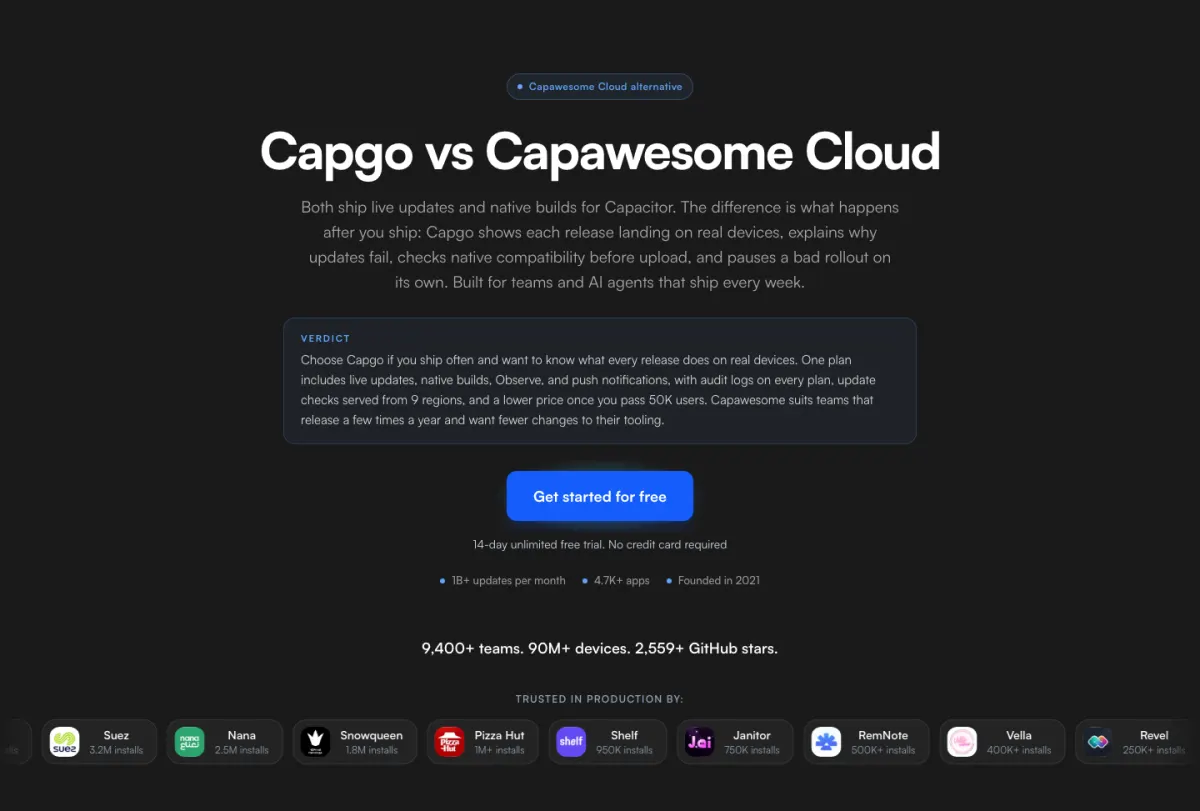
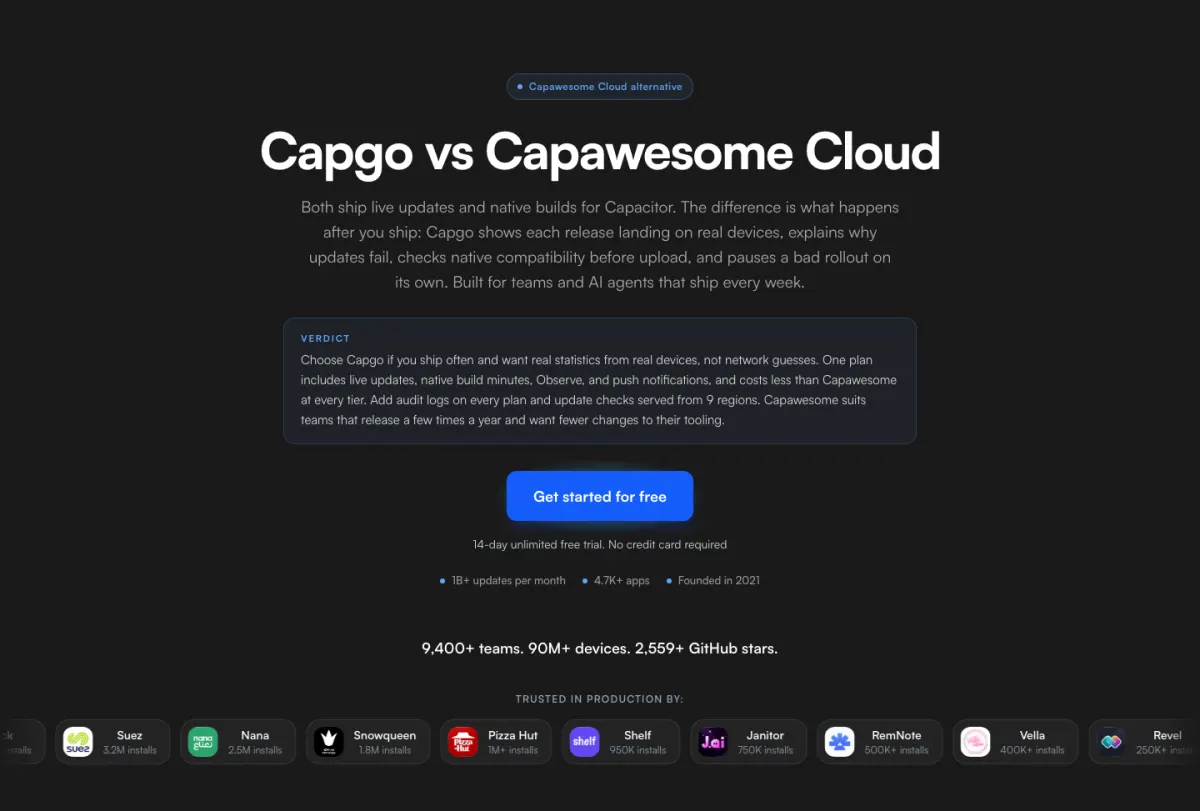
feat(web): Capawesome stats come from update checks; compare live updates + builds price per tier
Their plugin only calls the channel list and latest bundle endpoints and
reports no device events (iOS and Android source), so their numbers are
network-derived. Add a "where the numbers come from" row citing the code,
and replace the 100K MAU row with a per-tier price comparison for live
updates + native builds, where Capgo is cheaper at every tier.

Changed region(s): [[0.0308, 0.894, 0.9867, 0.9556], [0.2467, 0.4316, 0.74, 0.524]]

diff --git a/apps/shared/copy/translationContextByText.ts b/apps/shared/copy/translationContextByText.ts
@@ -134,9 +134,9 @@ export const translationContextByText: Record<string, string> = {
   '~60 sec': 'Page/area: Capgo Builder / native cloud build product page. Role: Short UI label or navigation item. Seen in: page native-build.astro, page native-build.astro. Message key `native_build_v2_strip_setup_v` (Native Build V2 Strip Setup V).',
   '~60 seconds.': 'Page/area: Capgo Builder / native cloud build product page. Role: Website copy sentence. Seen in: page native-build.astro, page native-build.astro. Message key `native_build_v2_comp_setup_capgo_hook` (Native Build V2 Comp Setup Capgo Hook).',
   '✓ Capgo Update Applied V1.0.11': 'Page/area: Built for developers homepage section. Role: Website copy sentence. Seen in: component BuiltForDevelopers.astro. Preserve Capgo product/brand and developer terms exactly. Message key `built_for_devs_phone_update` (Built For Devs Phone Update).',
+  '$14, $39, $99, or $249 a month for 2K, 10K, 100K, or 1M users. Build minutes are always included.': 'Page/area: Capgo marketing website. Role: Website copy sentence. Seen in: page alternatives/capawesome.astro. Message key `compare_capawesome_delta_price_capgo` (Compare Capawesome Delta Price Capgo).',
+  '$19, $49, $149, or $499 a month for 1K, 10K, 50K, or 250K users on Platform plans.': 'Page/area: Capgo marketing website. Role: Website copy sentence. Seen in: page alternatives/capawesome.astro. Message key `compare_capawesome_delta_price_them` (Compare Capawesome Delta Price Them).',
   '$19/mo minimum. Live updates are a separate add-on. Free tier needs their open-source program.': 'Page/area: Capgo Builder / native cloud build product page. Role: Website copy sentence. Seen in: page native-build.astro, page native-build.astro. Message key `native_build_v2_comp_try_capa` (Native Build V2 Comp Try Capa).',
-  '$249/month on Live Updates Business. Their Team plan stops at 50,000 users.': 'Page/area: Capgo marketing website. Role: Website copy sentence. Seen in: page alternatives/capawesome.astro. Message key `compare_capawesome_delta_scale_them` (Compare Capawesome Delta Scale Them).',
-  '$99/month on the Team plan, native build minutes included.': 'Page/area: Capgo marketing website. Role: Website copy sentence. Seen in: page alternatives/capawesome.astro. Message key `compare_capawesome_delta_scale_capgo` (Compare Capawesome Delta Scale Capgo).',
   '€1,000': 'Page/area: Homepage problem/solution section. Role: Short UI label or navigation item. Seen in: page premium-support.astro, page premium-support.astro. Message key `ps_price` (Ps Price).',
   '€250/hour effective rate • Additional hours available at the same rate': 'Page/area: Homepage problem/solution section. Role: Website copy sentence. Seen in: page premium-support.astro, page premium-support.astro. Message key `ps_rate_info` (Ps Rate Info).',
   '0 build minutes': 'Page/area: Capgo Builder / native cloud build product page. Role: Short UI label or navigation item. Seen in: page native-build.astro, page native-build.astro. Message key `native_build_builder_build_minutes_zero` (Native Build Builder Build Minutes Zero).',
@@ -161,7 +161,6 @@ export const translationContextByText: Record<string, string> = {
   '10-core GPU': 'Page/area: Capgo Builder / native cloud build product page. Role: Short UI label or navigation item. Message key `native_build_builder_infra_spec_gpu_value` (Native Build Builder Infra Spec Gpu Value).',
   '10-core M4 CPU (4 performance cores, 6 efficiency cores)': 'Page/area: Capgo Builder / native cloud build product page. Role: Website copy sentence. Message key `native_build_builder_infra_spec_cpu_value` (Native Build Builder Infra Spec Cpu Value).',
   '10%': 'Page/area: Pricing page or plan calculator UI. Role: Short UI label or navigation item. Seen in: page sla.astro. Message key `credit_10_percent` (Credit 10 Percent).',
-  '100,000 monthly active users': 'Page/area: Capgo marketing website. Role: UI label. Seen in: page alternatives/capawesome.astro. Message key `compare_capawesome_delta_scale_label` (Compare Capawesome Delta Scale Label).',
   '12 hours': 'HTML text fragment from a longer Capgo UI string (parent key `normal_priority_response`). Page/area: Capgo marketing website. Role: Website copy sentence. Seen in: page sla.astro. Message key `normal_priority_response` (Normal Priority Response).',
   '12 hours 24/7 x 365': 'Page/area: Capgo marketing website. Role: Website copy sentence. Seen in: page sla.astro. Message key `normal_priority_response` (Normal Priority Response).',
   '12 hours<br />24/7 x 365': 'Page/area: Capgo marketing website. Role: Website copy sentence. Seen in: page sla.astro. Message key `normal_priority_response` (Normal Priority Response).',
@@ -366,7 +365,7 @@ export const translationContextByText: Record<string, string> = {
   'action: fail this upload or ship a native build first': 'Page/area: Live updates product page. Role: Website copy sentence. Seen in: page live-update.astro, page live-update.astro. Message key `live_update_guidance_cli_action` (Live Update Guidance CLI Action).',
   'Actionable context in one place: decide to rollback, bump a channel, or ship a hotfix with confidence.': 'Page/area: Live updates product page. Role: Website copy sentence. Seen in: component landing/DeviceLogs.astro. Message key `live_update_logs_panel_footer` (Live Update Logs Panel Footer).',
   'Active': 'Page/area: Capacitor live-update alternatives comparison page. Role: Short UI label or navigation item. Seen in: page alternatives.astro. Message key `alternatives_sum_capawesome_status` (Alternatives Sum Capawesome Status). | Page/area: Capacitor live-update alternatives comparison page. Role: Short UI label or navigation item. Seen in: page alternatives.astro. Message key `alternatives_sum_expo_status` (Alternatives Sum Expo Status). | Page/area: Capacitor live-update alternatives comparison page. Role: Short UI label or navigation item. Seen in: page alternatives.astro. Message key `alternatives_sum_median_status` (Alternatives Sum Median Status). | Page/area: Capacitor live-update alternatives comparison page. Role: Short UI label or navigation item. Seen in: page alternatives.astro. Message key `alternatives_sum_voltbuilder_status` (Alternatives Sum Voltbuilder Status).',
-  'Active devices, update adoption, and bundle health per channel.': 'Page/area: Capgo marketing website. Role: Website copy sentence. Seen in: page alternatives/capawesome.astro. Preserve Capgo product/brand and developer terms exactly. Message key `compare_capawesome_delta_live_them` (Compare Capawesome Delta Live Them).',
+  'Active devices and adoption, inferred from update-check requests.': 'Page/area: Capgo marketing website. Role: Website copy sentence. Seen in: page alternatives/capawesome.astro. Message key `compare_capawesome_delta_live_them` (Compare Capawesome Delta Live Them).',
   'Active, founded 2021': 'Page/area: Capacitor live-update alternatives comparison page. Role: Short UI label or navigation item. Seen in: page alternatives.astro. Message key `alternatives_sum_capgo_status` (Alternatives Sum Capgo Status).',
   'Actively developed. Enterprise plans include a 99.9% uptime SLA.': 'Page/area: Capgo marketing website. Role: Website copy sentence. Seen in: page alternatives/expo.astro. Message key `compare_expo_company` (Compare Expo Company).',
   'Actual Availability': 'Page/area: Capgo marketing website. Role: Short UI label or navigation item. Seen in: page sla.astro. Message key `actual_availability` (Actual Availability).',
@@ -994,12 +993,13 @@ export const translationContextByText: Record<string, string> = {
   'Capawesome Cloud pricing': 'Page/area: Capgo marketing website. Role: Short UI label or navigation item. Seen in: page alternatives.astro, page alternatives/capawesome.astro. Message key `compare_capawesome_source_pricing` (Compare Capawesome Source Pricing).',
   'Capawesome Cloud review for Capacitor teams': 'Page/area: Capgo marketing website. Role: Section or page heading. Seen in: page alternatives.astro, page alternatives/capawesome.astro, page migrate/from-capawesome.astro. Preserve Capgo product/brand and developer terms exactly. Message key `review_capawesome_title` (Review Capawesome Title).',
   'Capawesome Cloud: Live Updates': 'Page/area: Capgo marketing website. Role: Website copy sentence. Seen in: page alternatives/capawesome.astro. Message key `compare_capawesome_source_live_updates` (Compare Capawesome Source Live Updates).',
+  'Capawesome counts update-check requests. Capgo devices report what actually happened: downloads, installs, failures, rollbacks, app launches, and crashes. That is how you get native app health, failure causes, a timeline for every device, and rollouts that pause themselves. These are real Capgo screens.': 'Page/area: Capgo marketing website. Role: Long marketing or legal paragraph. Seen in: page alternatives/capawesome.astro. Preserve Capgo product/brand and developer terms exactly. Message key `compare_capawesome_obs_lead` (Compare Capawesome Obs Lead).',
   'Capawesome docs: Gradual rollouts': 'Page/area: Capgo marketing website. Role: Website copy sentence. Seen in: page alternatives/capawesome.astro. Message key `compare_capawesome_source_rollouts` (Compare Capawesome Source Rollouts).',
   'Capawesome docs: Live Update bundles': 'Page/area: Capgo marketing website. Role: Website copy sentence. Seen in: page alternatives/capawesome.astro. Preserve Capgo product/brand and developer terms exactly. Message key `compare_capawesome_source_bundles` (Compare Capawesome Source Bundles).',
   'Capawesome docs: Live Update logs': 'Page/area: Capgo marketing website. Role: Website copy sentence. Seen in: page alternatives/capawesome.astro. Message key `compare_capawesome_source_logs` (Compare Capawesome Source Logs).',
   'Capawesome docs: MCP server': 'Page/area: Capgo marketing website. Role: Website copy sentence. Seen in: page alternatives/capawesome.astro. Message key `compare_capawesome_source_ai` (Compare Capawesome Source Ai).',
   'Capawesome Live Update plugin on GitHub': 'Page/area: Capgo marketing website. Role: Website copy sentence. Seen in: page alternatives/capawesome.astro. Preserve Capgo product/brand and developer terms exactly. Message key `compare_capawesome_source_github` (Compare Capawesome Source Github).',
-  'Capawesome reports active devices, update adoption, and bundle health. Capgo goes further: native app health, failure causes, a timeline for every device, and rollouts that pause themselves. These are real Capgo screens.': 'Page/area: Capgo marketing website. Role: Long marketing or legal paragraph. Seen in: page alternatives/capawesome.astro. Preserve Capgo product/brand and developer terms exactly. Message key `compare_capawesome_obs_lead` (Compare Capawesome Obs Lead).',
+  'Capawesome Live Update plugin source: network calls': 'Page/area: Capgo marketing website. Role: Website copy sentence. Seen in: page alternatives/capawesome.astro. Message key `compare_capawesome_source_plugin_code` (Compare Capawesome Source Plugin Code).',
   'Capawesome ships popular Capacitor plugins and a cloud platform for live updates and builds. Many teams evaluate it next to Capgo.': 'Page/area: Capgo marketing website. Role: Section subtitle or tagline. Seen in: page reviews/capawesome.astro. Preserve Capgo product/brand and developer terms exactly. Message key `review_capawesome_hero_subtitle` (Review Capawesome Hero Subtitle).',
   'Capawesome vs Capgo': 'Page/area: Capawesome comparison page. Role: Section or page heading. Seen in: page alternatives/capawesome.astro, page alternatives/capawesome.astro, page migrate/from-capawesome.astro. Preserve Capgo product/brand and developer terms exactly. Message key `capwesome_title` (Capwesome Title). | Page/area: Capawesome comparison page. Role: UI label. Seen in: site footer, site footer. Preserve Capgo product/brand and developer terms exactly. Message key `capwesome_nav_label` (Capwesome Nav Label).',
   'Capawesome: About': 'Page/area: Capgo marketing website. Role: Short UI label or navigation item. Seen in: page alternatives/capawesome.astro. Message key `compare_capawesome_source_about` (Compare Capawesome Source About).',
@@ -1257,7 +1257,7 @@ export const translationContextByText: Record<string, string> = {
   'Children\'s Privacy': 'Page/area: Privacy policy legal page. Role: Section or page heading. Seen in: page privacy.astro. Message key `privacy_children_privacy_title` (Privacy Children Privacy Title).',
   'Choose an AI assistant': 'Page/area: Capgo marketing website. Role: UI label. Seen in: component AskAiSection.astro. Message key `ask_ai_provider_label` (Ask Ai Provider Label).',
   'Choose an order': 'Page/area: Capgo marketing website. Role: Short UI label or navigation item. Seen in: page plugins.astro, page plugins.astro. Message key `choose_an_order` (Choose An Order).',
-  'Choose Capgo if you ship often and want to know what every release does on real devices. One plan includes live updates, native builds, Observe, and push notifications, with audit logs on every plan, update checks served from 9 regions, and a lower price once you pass 50K users. Capawesome suits teams that release a few times a year and want fewer changes to their tooling.': 'Page/area: Capgo marketing website. Role: Long marketing or legal paragraph. Seen in: page alternatives.astro, page alternatives/capawesome.astro. Preserve Capgo product/brand and developer terms exactly. Message key `compare_capawesome_verdict` (Compare Capawesome Verdict).',
+  'Choose Capgo if you ship often and want real statistics from real devices, not network guesses. One plan includes live updates, native build minutes, Observe, and push notifications, and costs less than Capawesome at every tier. Add audit logs on every plan and update checks served from 9 regions. Capawesome suits teams that release a few times a year and want fewer changes to their tooling.': 'Page/area: Capgo marketing website. Role: Long marketing or legal paragraph. Seen in: page alternatives.astro, page alternatives/capawesome.astro. Preserve Capgo product/brand and developer terms exactly. Message key `compare_capawesome_verdict` (Compare Capawesome Verdict).',
   'Choose Capgo when you want a Capacitor app you control, with live updates, rollback, channels, native builds, device logs, open-source code, self-hosting options, Discord community help, and paid expert support when needed.': 'Page/area: Capgo marketing website. Role: FAQ question or answer. Seen in: page alternatives/median.astro. Preserve Capgo product/brand and developer terms exactly. Message key `compare_median_faq_a5` (Compare Median FAQ A5).',
   'Choose EAS when the product is React Native. Choose Capgo when the product is a web app and the goal is iOS and Android without rewriting the UI.': 'Page/area: Capgo marketing website. Role: Website copy sentence. Seen in: page alternatives.astro, page alternatives/expo.astro. Preserve Capgo product/brand and developer terms exactly. Message key `compare_expo_verdict` (Compare Expo Verdict).',
   'Choose from your Capgo projects': 'Page/area: Capgo marketing website. Role: Website copy sentence. Preserve Capgo product/brand and developer terms exactly. Message key `choose_from_your_capgo_projects` (Choose From Your Capgo Projects).',
@@ -1902,6 +1902,7 @@ export const translationContextByText: Record<string, string> = {
   'Even after approval, shoppers still have to install the new version. The campaign may be over before most of them do.': 'Page/area: Capgo solutions marketing page. Role: Website copy sentence. Seen in: page solutions/ecommerce.astro, page solutions/ecommerce.astro. Message key `solutions_ecommerce_nightmare_para3` (Solutions Ecommerce Nightmare Para3).',
   'Even after approval, users still have to install the new version before they get the fix.': 'Page/area: Capgo solutions marketing page. Role: Website copy sentence. Seen in: page solutions/fintech.astro, page solutions/fintech.astro. Message key `solutions_fintech_nightmare_para3` (Solutions Fintech Nightmare Para3).',
   'Event pages, notices, or terms that must be current when users open the app.': 'Page/area: Capgo solutions marketing page. Role: Website copy sentence. Seen in: page solutions/direct-updates.astro, page solutions/direct-updates.astro. Message key `solutions_direct_usecase3_desc` (Solutions Direct Usecase3 Desc).',
+  'Events sent by the device: downloads, installs, failures, rollbacks, app launches, and crashes.': 'Page/area: Capgo marketing website. Role: Website copy sentence. Seen in: page alternatives/capawesome.astro. Message key `compare_capawesome_delta_source_capgo` (Compare Capawesome Delta Source Capgo).',
   'Every 10 min while open': 'Page/area: Capgo solutions marketing page. Role: Website copy sentence. Seen in: page solutions/set-and-forget.astro. Message key `solutions_set_and_forget_stat2_value` (Solutions Set And Forget Stat2 Value).',
   'Every bug report lands on you. Shipping the fix should not wait a week.': 'Page/area: Capgo solutions marketing page. Role: Website copy sentence. Seen in: page solutions/solo-developers.astro, page solutions/solo-developers.astro. Message key `solutions_solo_pain6_desc` (Solutions Solo Pain6 Desc).',
   'Every build': 'Page/area: Capgo solutions marketing page. Role: Short UI label or navigation item. Seen in: page solutions/pr-preview.astro. Message key `solutions_pr_cost_processing_value` (Solutions Pr Cost Processing Value).',
@@ -2821,6 +2822,7 @@ export const translationContextByText: Record<string, string> = {
   'Live Update SLA Exclusions': 'Page/area: Live updates product page. Role: Section or page heading. Seen in: page sla.astro. Message key `live_update_sla_exclusions_title` (Live Update SLA Exclusions Title).',
   'Live updates': 'Page/area: Capgo solutions marketing page. Role: Short UI label or navigation item. Message key `solutions_lovable_to_mobile_stat3_value` (Solutions Lovable To Mobile Stat3 Value). | Page/area: Capgo solutions marketing page. Role: Short UI label or navigation item. Message key `solutions_webapp_to_mobile_stat3_value` (Solutions Webapp To Mobile Stat3 Value).',
   'Live Updates': 'Page/area: Capgo marketing website. Role: UI label. Seen in: site header, component PlatformOverview.astro, component ProductsMegaMenu.astro. Message key `platform_live_update_name` (Platform Live Update Name). | Page/area: Homepage problem/solution section. Role: Section or page heading. Seen in: page premium-support.astro, page premium-support.astro. Message key `ps_help_updates_title` (Ps Help Updates Title).',
+  'Live updates + native builds': 'Page/area: Capgo marketing website. Role: UI label. Seen in: page alternatives/capawesome.astro. Message key `compare_capawesome_delta_price_label` (Compare Capawesome Delta Price Label).',
   'Live updates after launch': 'Page/area: Capgo solutions marketing page. Role: Section or page heading. Message key `solutions_webapp_to_mobile_cap4_title` (Solutions Webapp To Mobile Cap4 Title).',
   'Live updates and cloud builds for solo Capacitor developers: one CLI, a GitHub Actions step, automatic rollback, iOS builds without a Mac, and an MCP server for your AI assistant. From $12/month billed yearly.': 'Page/area: Capgo solutions marketing page. Role: Supporting description paragraph or meta description. Seen in: page solutions/solo-developers.astro, page solutions/solo-developers.astro. Preserve Capgo product/brand and developer terms exactly. Message key `solutions_solo_description` (Solutions Solo Description).',
   'Live Updates and Native Builds for Mobile Agencies': 'Page/area: Capgo solutions marketing page. Role: Section or page heading. Seen in: page solutions/agencies.astro, page solutions/agencies.astro. Message key `solutions_agencies_title` (Solutions Agencies Title).',
@@ -3148,6 +3150,7 @@ export const translationContextByText: Record<string, string> = {
   'Needs native build': 'Page/area: Capgo marketing website. Role: Short UI label or navigation item. Seen in: component explainers/SceneOtaBoundary.astro. Message key `explainer_ota_needs_build` (Explainer OTA Needs Build).',
   'Network connections': 'Page/area: Capgo marketing website. Role: Short UI label or navigation item. Message key `network_connections` (Network Connections).',
   'Network Connections': 'Page/area: Homepage marketing copy. Role: Short UI label or navigation item. Seen in: component GlobalInfrastructure.astro, component GlobalInfrastructure.astro. Message key `home_network_connections` (Home Network Connections).',
+  'Network requests only. Their plugin calls two endpoints, the channel list and the latest bundle, and reports no device events.': 'Page/area: Capgo marketing website. Role: Website copy sentence. Seen in: page alternatives/capawesome.astro. Preserve Capgo product/brand and developer terms exactly. Message key `compare_capawesome_delta_source_them` (Compare Capawesome Delta Source Them).',
   'Neural Engine': 'Page/area: Capgo Builder / native cloud build product page. Role: UI label. Message key `native_build_builder_infra_spec_neural_label` (Native Build Builder Infra Spec Neural Label).',
   'Never persisted on our servers.': 'Page/area: Capgo Builder / native cloud build product page. Role: Website copy sentence. Seen in: page native-build.astro, page native-build.astro. Message key `native_build_v2_comp_cred_capgo_hook` (Native Build V2 Comp Cred Capgo Hook).',
   'New': 'Page/area: Live updates product page. Role: Short UI label or navigation item. Message key `live_update_lts_electron_new` (Live Update Lts Electron New).',
@@ -3246,8 +3249,8 @@ export const translationContextByText: Record<string, string> = {
   'Nope. Whatever you\'re using now (GitHub Actions, GitLab CI, Jenkins, etc.) keeps working. Just change the upload step to use our CLI instead of Appflow\'s.': 'Page/area: Appflow comparison / migration marketing copy. Role: FAQ question or answer. Seen in: page alternatives/ionic-appflow.astro, page alternatives/ionic-appflow.astro. Preserve Capgo product/brand and developer terms exactly. Message key `appflow_faq_a1` (Appflow FAQ A1).',
   'Not applicable without live updates. Every change ships as a new store build.': 'Page/area: Capgo marketing website. Role: Website copy sentence. Seen in: page alternatives/voltbuilder.astro. Message key `compare_voltbuilder_rollback` (Compare Voltbuilder Rollback).',
   'Not applicable: the app shows whatever your web server serves, so rollback follows your web deploys.': 'Page/area: Capgo marketing website. Role: Website copy sentence. Seen in: page alternatives/median.astro. Message key `compare_median_rollback` (Compare Median Rollback).',
+  'Not available. The plugin sends no launch, crash, or error events.': 'Page/area: Capgo marketing website. Role: Website copy sentence. Seen in: page alternatives/capawesome.astro. Message key `compare_capawesome_delta_native_them` (Compare Capawesome Delta Native Them).',
   'Not Covered': 'Page/area: Support / premium support page or footer support section. Role: Section or page heading. Seen in: page support-policy.astro. Message key `support_policy_not_covered_title` (Support Policy Not Covered Title).',
-  'Not documented.': 'Page/area: Capgo marketing website. Role: Website copy sentence. Seen in: page alternatives/capawesome.astro. Message key `compare_capawesome_delta_native_them` (Compare Capawesome Delta Native Them).',
   'Not for using live updates. Both stores let apps download interpreted code like JavaScript, HTML, and CSS, as long as each update stays within the app you submitted for review.': 'Page/area: Capgo marketing website. Role: Long marketing or legal paragraph. Seen in: component StorePolicySection.astro. Message key `store_policy_lead` (Store Policy Lead).',
   'Not if the goal is ownership. Median is a managed web-to-app platform. Capgo is for Capacitor apps where your app code, plugins, update service, and hosting path can stay portable and open source.': 'Page/area: Capgo marketing website. Role: FAQ question or answer. Seen in: page alternatives/median.astro. Preserve Capgo product/brand and developer terms exactly. Message key `compare_median_faq_a1` (Compare Median FAQ A1).',
   'Not included. Build or buy OTA separately.': 'Page/area: Capgo Builder / native cloud build product page. Role: Website copy sentence. Seen in: page native-build.astro, page native-build.astro. Preserve Capgo product/brand and developer terms exactly. Message key `native_build_v2_comp_ota_diy` (Native Build V2 Comp OTA Diy).',
@@ -3886,7 +3889,7 @@ export const translationContextByText: Record<string, string> = {
   'Release health in Observe': 'Page/area: Capgo solutions marketing page. Role: Section or page heading. Seen in: page solutions/production-updates.astro, page solutions/production-updates.astro. Message key `solutions_usecase3_title` (Solutions Usecase3 Title).',
   'Release health while it ships': 'Page/area: Live updates product page. Role: Section or page heading. Message key `live_update_guidance_dashboard_title` (Live Update Guidance Dashboard Title).',
   'Release intelligence': 'Page/area: Homepage landing product feature section. Role: Section subtitle or tagline. Seen in: component landing/ReleaseIntelligence.astro. Message key `landing_release_intelligence_subtitle` (Landing Release Intelligence Subtitle). | Page/area: Live updates product page. Role: Short UI label or navigation item. Seen in: page live-update.astro, page live-update.astro. Message key `live_update_guidance_kicker` (Live Update Guidance Kicker).',
-  'Release observability and safety in Capgo and Capawesome Cloud, based on public documentation.': 'Page/area: Capgo marketing website. Role: Website copy sentence. Seen in: page alternatives/capawesome.astro. Preserve Capgo product/brand and developer terms exactly. Message key `compare_capawesome_delta_caption` (Compare Capawesome Delta Caption).',
+  'Release observability and safety in Capgo and Capawesome Cloud, based on public documentation and plugin source code.': 'Page/area: Capgo marketing website. Role: Website copy sentence. Seen in: page alternatives/capawesome.astro. Preserve Capgo product/brand and developer terms exactly. Message key `compare_capawesome_delta_caption` (Compare Capawesome Delta Caption).',
   'release owners, security admins, and support teams productive quickly.': 'Page/area: Enterprise product/pricing page. Role: Website copy sentence. Seen in: page enterprise.astro, page enterprise.astro. Message key `enterprise_procurement_onboarding_desc` (Enterprise Procurement Onboarding Desc).',
   'Release safety': 'Page/area: Enterprise product/pricing page. Role: UI label. Seen in: page enterprise.astro, page enterprise.astro. Message key `enterprise_release_safety_label` (Enterprise Release Safety Label).',
   'Release teams rely on Capgo in production': 'Page/area: Capgo marketing website. Role: Section or page heading. Seen in: page observe.astro. Preserve Capgo product/brand and developer terms exactly. Message key `proof_observe_title` (Proof Observe Title).',
@@ -5480,6 +5483,7 @@ export const translationContextByText: Record<string, string> = {
   'Where is the current sub-processor list?': 'Page/area: Enterprise product/pricing page. Role: FAQ question or answer. Seen in: page enterprise.astro, page enterprise.astro. Message key `enterprise_faq_subprocessors_q` (Enterprise FAQ Subprocessors Q).',
   'Where restaurant apps use live updates': 'Page/area: Capgo solutions marketing page. Role: Section or page heading. Seen in: page solutions/qsr.astro, page solutions/qsr.astro. Message key `solutions_qsr_usecases_title` (Solutions Qsr Usecases Title).',
   'Where startup time goes': 'Page/area: Capgo solutions marketing page. Role: UI label. Seen in: page solutions/startups.astro, page solutions/startups.astro. Message key `solutions_startups_reality_label` (Solutions Startups Reality Label).',
+  'Where the numbers come from': 'Page/area: Capgo marketing website. Role: UI label. Seen in: page alternatives/capawesome.astro. Message key `compare_capawesome_delta_source_label` (Compare Capawesome Delta Source Label).',
   'Which Capgo skill should we install?': 'Page/area: Capgo solutions marketing page. Role: Website copy sentence. Seen in: page solutions/cordova-to-capacitor-ai.astro. Preserve Capgo product/brand and developer terms exactly. Message key `solutions_cordova_to_capacitor_ai_faq2_q` (Solutions Cordova To Capacitor Ai Faq2 Q).',
   'Which stack should a web team choose?': 'Page/area: Capgo marketing website. Role: FAQ question or answer. Seen in: page alternatives/expo.astro. Message key `compare_expo_faq_q8` (Compare Expo FAQ Q8).',
   'While Ionic Appflow announced its shutdown, Capgo continues to grow stronger every day.': 'Page/area: Homepage marketing copy. Role: Website copy sentence. Seen in: component AppflowShutdown.astro, component AppflowShutdown.astro. Preserve Capgo product/brand and developer terms exactly. Message key `home_appflow_notice_intro` (Home Appflow Notice Intro).',

diff --git a/apps/shared/copy/messageContexts.ts b/apps/shared/copy/messageContexts.ts
@@ -799,22 +799,25 @@ export const messageContexts = {
   compare_capawesome_delta_infra_them: 'Page/area: Capgo marketing website. Role: Website copy sentence. Seen in: page alternatives/capawesome.astro. Preserve Capgo product/brand and developer terms exactly. Message key `compare_capawesome_delta_infra_them` (Compare Capawesome Delta Infra Them).',
   compare_capawesome_delta_live_capgo: 'Page/area: Capgo marketing website. Role: Website copy sentence. Seen in: page alternatives/capawesome.astro. Message key `compare_capawesome_delta_live_capgo` (Compare Capawesome Delta Live Capgo).',
   compare_capawesome_delta_live_label: 'Page/area: Capgo marketing website. Role: UI label. Seen in: page alternatives/capawesome.astro. Message key `compare_capawesome_delta_live_label` (Compare Capawesome Delta Live Label).',
-  compare_capawesome_delta_live_them: 'Page/area: Capgo marketing website. Role: Website copy sentence. Seen in: page alternatives/capawesome.astro. Preserve Capgo product/brand and developer terms exactly. Message key `compare_capawesome_delta_live_them` (Compare Capawesome Delta Live Them).',
+  compare_capawesome_delta_live_them: 'Page/area: Capgo marketing website. Role: Website copy sentence. Seen in: page alternatives/capawesome.astro. Message key `compare_capawesome_delta_live_them` (Compare Capawesome Delta Live Them).',
   compare_capawesome_delta_native_capgo: 'Page/area: Capgo marketing website. Role: Website copy sentence. Seen in: page alternatives/capawesome.astro. Message key `compare_capawesome_delta_native_capgo` (Compare Capawesome Delta Native Capgo).',
   compare_capawesome_delta_native_label: 'Page/area: Capgo marketing website. Role: UI label. Seen in: page alternatives/capawesome.astro. Message key `compare_capawesome_delta_native_label` (Compare Capawesome Delta Native Label).',
   compare_capawesome_delta_native_them: 'Page/area: Capgo marketing website. Role: Website copy sentence. Seen in: page alternatives/capawesome.astro. Message key `compare_capawesome_delta_native_them` (Compare Capawesome Delta Native Them).',
   compare_capawesome_delta_plan_capgo: 'Page/area: Capgo marketing website. Role: Website copy sentence. Seen in: page alternatives/capawesome.astro. Message key `compare_capawesome_delta_plan_capgo` (Compare Capawesome Delta Plan Capgo).',
   compare_capawesome_delta_plan_label: 'Page/area: Capgo marketing website. Role: UI label. Seen in: page alternatives/capawesome.astro. Message key `compare_capawesome_delta_plan_label` (Compare Capawesome Delta Plan Label).',
   compare_capawesome_delta_plan_them: 'Page/area: Capgo marketing website. Role: Website copy sentence. Seen in: page alternatives/capawesome.astro. Preserve Capgo product/brand and developer terms exactly. Message key `compare_capawesome_delta_plan_them` (Compare Capawesome Delta Plan Them).',
+  compare_capawesome_delta_price_capgo: 'Page/area: Capgo marketing website. Role: Website copy sentence. Seen in: page alternatives/capawesome.astro. Message key `compare_capawesome_delta_price_capgo` (Compare Capawesome Delta Price Capgo).',
+  compare_capawesome_delta_price_label: 'Page/area: Capgo marketing website. Role: UI label. Seen in: page alternatives/capawesome.astro. Message key `compare_capawesome_delta_price_label` (Compare Capawesome Delta Price Label).',
+  compare_capawesome_delta_price_them: 'Page/area: Capgo marketing website. Role: Website copy sentence. Seen in: page alternatives/capawesome.astro. Message key `compare_capawesome_delta_price_them` (Compare Capawesome Delta Price Them).',
   compare_capawesome_delta_push_capgo: 'Page/area: Capgo marketing website. Role: Website copy sentence. Seen in: page alternatives/capawesome.astro. Message key `compare_capawesome_delta_push_capgo` (Compare Capawesome Delta Push Capgo).',
   compare_capawesome_delta_push_label: 'Page/area: Capgo marketing website. Role: UI label. Seen in: page alternatives/capawesome.astro. Message key `compare_capawesome_delta_push_label` (Compare Capawesome Delta Push Label).',
   compare_capawesome_delta_push_them: 'Page/area: Capgo marketing website. Role: Website copy sentence. Seen in: page alternatives/capawesome.astro. Message key `compare_capawesome_delta_push_them` (Compare Capawesome Delta Push Them).',
   compare_capawesome_delta_rollout_capgo: 'Page/area: Capgo marketing website. Role: Website copy sentence. Seen in: page alternatives/capawesome.astro. Message key `compare_capawesome_delta_rollout_capgo` (Compare Capawesome Delta Rollout Capgo).',
   compare_capawesome_delta_rollout_label: 'Page/area: Capgo marketing website. Role: UI label. Seen in: page alternatives/capawesome.astro. Message key `compare_capawesome_delta_rollout_label` (Compare Capawesome Delta Rollout Label).',
   compare_capawesome_delta_rollout_them: 'Page/area: Capgo marketing website. Role: Website copy sentence. Seen in: page alternatives/capawesome.astro. Preserve Capgo product/brand and developer terms exactly. Message key `compare_capawesome_delta_rollout_them` (Compare Capawesome Delta Rollout Them).',
-  compare_capawesome_delta_scale_capgo: 'Page/area: Capgo marketing website. Role: Website copy sentence. Seen in: page alternatives/capawesome.astro. Message key `compare_capawesome_delta_scale_capgo` (Compare Capawesome Delta Scale Capgo).',
-  compare_capawesome_delta_scale_label: 'Page/area: Capgo marketing website. Role: UI label. Seen in: page alternatives/capawesome.astro. Message key `compare_capawesome_delta_scale_label` (Compare Capawesome Delta Scale Label).',
-  compare_capawesome_delta_scale_them: 'Page/area: Capgo marketing website. Role: Website copy sentence. Seen in: page alternatives/capawesome.astro. Message key `compare_capawesome_delta_scale_them` (Compare Capawesome Delta Scale Them).',
+  compare_capawesome_delta_source_capgo: 'Page/area: Capgo marketing website. Role: Website copy sentence. Seen in: page alternatives/capawesome.astro. Message key `compare_capawesome_delta_source_capgo` (Compare Capawesome Delta Source Capgo).',
+  compare_capawesome_delta_source_label: 'Page/area: Capgo marketing website. Role: UI label. Seen in: page alternatives/capawesome.astro. Message key `compare_capawesome_delta_source_label` (Compare Capawesome Delta Source Label).',
+  compare_capawesome_delta_source_them: 'Page/area: Capgo marketing website. Role: Website copy sentence. Seen in: page alternatives/capawesome.astro. Preserve Capgo product/brand and developer terms exactly. Message key `compare_capawesome_delta_source_them` (Compare Capawesome Delta Source Them).',
   compare_capawesome_delta_title: 'Page/area: Capgo marketing website. Role: Section or page heading. Seen in: page alternatives/capawesome.astro. Preserve Capgo product/brand and developer terms exactly. Message key `compare_capawesome_delta_title` (Compare Capawesome Delta Title).',
   compare_capawesome_eyebrow: 'Page/area: Capgo marketing website. Role: Section subtitle or tagline. Seen in: page alternatives/capawesome.astro. Message key `compare_capawesome_eyebrow` (Compare Capawesome Eyebrow).',
   compare_capawesome_frameworks: 'Page/area: Capgo marketing website. Role: Website copy sentence. Seen in: page alternatives/capawesome.astro. Preserve Capgo product/brand and developer terms exactly. Message key `compare_capawesome_frameworks` (Compare Capawesome Frameworks).',
@@ -836,6 +839,7 @@ export const messageContexts = {
   compare_capawesome_source_github: 'Page/area: Capgo marketing website. Role: Website copy sentence. Seen in: page alternatives/capawesome.astro. Preserve Capgo product/brand and developer terms exactly. Message key `compare_capawesome_source_github` (Compare Capawesome Source Github).',
   compare_capawesome_source_live_updates: 'Page/area: Capgo marketing website. Role: Website copy sentence. Seen in: page alternatives/capawesome.astro. Message key `compare_capawesome_source_live_updates` (Compare Capawesome Source Live Updates).',
   compare_capawesome_source_logs: 'Page/area: Capgo marketing website. Role: Website copy sentence. Seen in: page alternatives/capawesome.astro. Message key `compare_capawesome_source_logs` (Compare Capawesome Source Logs).',
+  compare_capawesome_source_plugin_code: 'Page/area: Capgo marketing website. Role: Website copy sentence. Seen in: page alternatives/capawesome.astro. Message key `compare_capawesome_source_plugin_code` (Compare Capawesome Source Plugin Code).',
   compare_capawesome_source_pricing: 'Page/area: Capgo marketing website. Role: Short UI label or navigation item. Seen in: page alternatives.astro, page alternatives/capawesome.astro. Message key `compare_capawesome_source_pricing` (Compare Capawesome Source Pricing).',
   compare_capawesome_source_rollouts: 'Page/area: Capgo marketing website. Role: Website copy sentence. Seen in: page alternatives/capawesome.astro. Message key `compare_capawesome_source_rollouts` (Compare Capawesome Source Rollouts).',
   compare_capawesome_step1_text: 'Page/area: Capgo marketing website. Role: Website copy sentence. Seen in: page alternatives/capawesome.astro. Message key `compare_capawesome_step1_text` (Compare Capawesome Step1 Text).',

diff --git a/apps/shared/copy/messages.ts b/apps/shared/copy/messages.ts
@@ -626,15 +626,21 @@ const messages = {
   compare_capawesome_obs_eyebrow: 'After you ship',
   compare_capawesome_obs_title: 'See what every release does on real devices',
   compare_capawesome_obs_lead:
-    'Capawesome reports active devices, update adoption, and bundle health. Capgo goes further: native app health, failure causes, a timeline for every device, and rollouts that pause themselves. These are real Capgo screens.',
+    'Capawesome counts update-check requests. Capgo devices report what actually happened: downloads, installs, failures, rollbacks, app launches, and crashes. That is how you get native app health, failure causes, a timeline for every device, and rollouts that pause themselves. These are real Capgo screens.',
   compare_capawesome_delta_title: 'What Capgo adds on top',
-  compare_capawesome_delta_caption: 'Release observability and safety in Capgo and Capawesome Cloud, based on public documentation.',
+  compare_capawesome_delta_caption: 'Release observability and safety in Capgo and Capawesome Cloud, based on public documentation and plugin source code.',
   compare_capawesome_delta_live_label: 'Live release health',
   compare_capawesome_delta_live_capgo: 'Installs, failed attempts, adoption, and success rate for the release that is live, in 5-minute buckets.',
-  compare_capawesome_delta_live_them: 'Active devices, update adoption, and bundle health per channel.',
+  compare_capawesome_delta_live_them: 'Active devices and adoption, inferred from update-check requests.',
+  compare_capawesome_delta_price_them: '$19, $49, $149, or $499 a month for 1K, 10K, 50K, or 250K users on Platform plans.',
+  compare_capawesome_delta_price_capgo: '$14, $39, $99, or $249 a month for 2K, 10K, 100K, or 1M users. Build minutes are always included.',
+  compare_capawesome_delta_price_label: 'Live updates + native builds',
+  compare_capawesome_delta_source_them: 'Network requests only. Their plugin calls two endpoints, the channel list and the latest bundle, and reports no device events.',
+  compare_capawesome_delta_source_capgo: 'Events sent by the device: downloads, installs, failures, rollbacks, app launches, and crashes.',
+  compare_capawesome_delta_source_label: 'Where the numbers come from',
   compare_capawesome_delta_native_label: 'Native app health',
   compare_capawesome_delta_native_capgo: 'Launch time, WebView load time, crashes, ANRs, and JavaScript errors by version, platform, and channel.',
-  compare_capawesome_delta_native_them: 'Not documented.',
+  compare_capawesome_delta_native_them: 'Not available. The plugin sends no launch, crash, or error events.',
   compare_capawesome_delta_failures_label: 'Why updates fail',
   compare_capawesome_delta_failures_capgo: 'Failures grouped by cause (network or device, bundle, rollback) with the affected versions and devices.',
   compare_capawesome_delta_failures_them: 'Request and response logs of update checks, with status codes.',
@@ -650,9 +656,6 @@ const messages = {
   compare_capawesome_delta_audit_label: 'Audit logs',
   compare_capawesome_delta_audit_capgo: 'Included on every plan.',
   compare_capawesome_delta_audit_them: 'Business plan and above, from $249/month.',
-  compare_capawesome_delta_scale_label: '100,000 monthly active users',
-  compare_capawesome_delta_scale_capgo: '$99/month on the Team plan, native build minutes included.',
-  compare_capawesome_delta_scale_them: '$249/month on Live Updates Business. Their Team plan stops at 50,000 users.',
   compare_capawesome_delta_push_label: 'Push notifications',
   compare_capawesome_delta_push_capgo: 'Hosted push for iOS and Android in the same plan, plus silent update checks that speed up rollouts.',
   compare_capawesome_delta_push_them: 'Not part of Capawesome Cloud.',
@@ -669,6 +672,7 @@ const messages = {
   compare_capawesome_pace: 'Capgo ships in the open, several times a week.',
   compare_capawesome_pace_link: 'Follow every change on GitHub',
   compare_capawesome_source_logs: 'Capawesome docs: Live Update logs',
+  compare_capawesome_source_plugin_code: 'Capawesome Live Update plugin source: network calls',
   compare_capawesome_source_rollouts: 'Capawesome docs: Gradual rollouts',
   compare_capawesome_source_bundles: 'Capawesome docs: Live Update bundles',
   compare_capawesome_open_source:
@@ -688,7 +692,7 @@ const messages = {
   compare_capawesome_step3_text: 'Replace the Capawesome deploy step in CI with <code>npx @capgo/cli@latest bundle upload</code>.',
   compare_capawesome_support: 'Community chat on every plan. Email support from Professional (Live Updates) or Starter (Platform), and priority support on Business.',
   compare_capawesome_verdict:
-    'Choose Capgo if you ship often and want to know what every release does on real devices. One plan includes live updates, native builds, Observe, and push notifications, with audit logs on every plan, update checks served from 9 regions, and a lower price once you pass 50K users. Capawesome suits teams that release a few times a year and want fewer changes to their tooling.',
+    'Choose Capgo if you ship often and want real statistics from real devices, not network guesses. One plan includes live updates, native build minutes, Observe, and push notifications, and costs less than Capawesome at every tier. Add audit logs on every plan and update checks served from 9 regions. Capawesome suits teams that release a few times a year and want fewer changes to their tooling.',
   compare_capgo_company: 'Independent and bootstrapped, founded in 2021. 9,400+ teams, 4.7K+ apps, and 90M+ devices. SOC 2 Type II and ISO 27001 on the Enterprise plan.',
   compare_capgo_frameworks:
     'Capacitor apps built with React, Vue, Angular, Svelte, Ionic, or any web framework. Live updates also work for Cordova and Electron. Not for React Native.',
